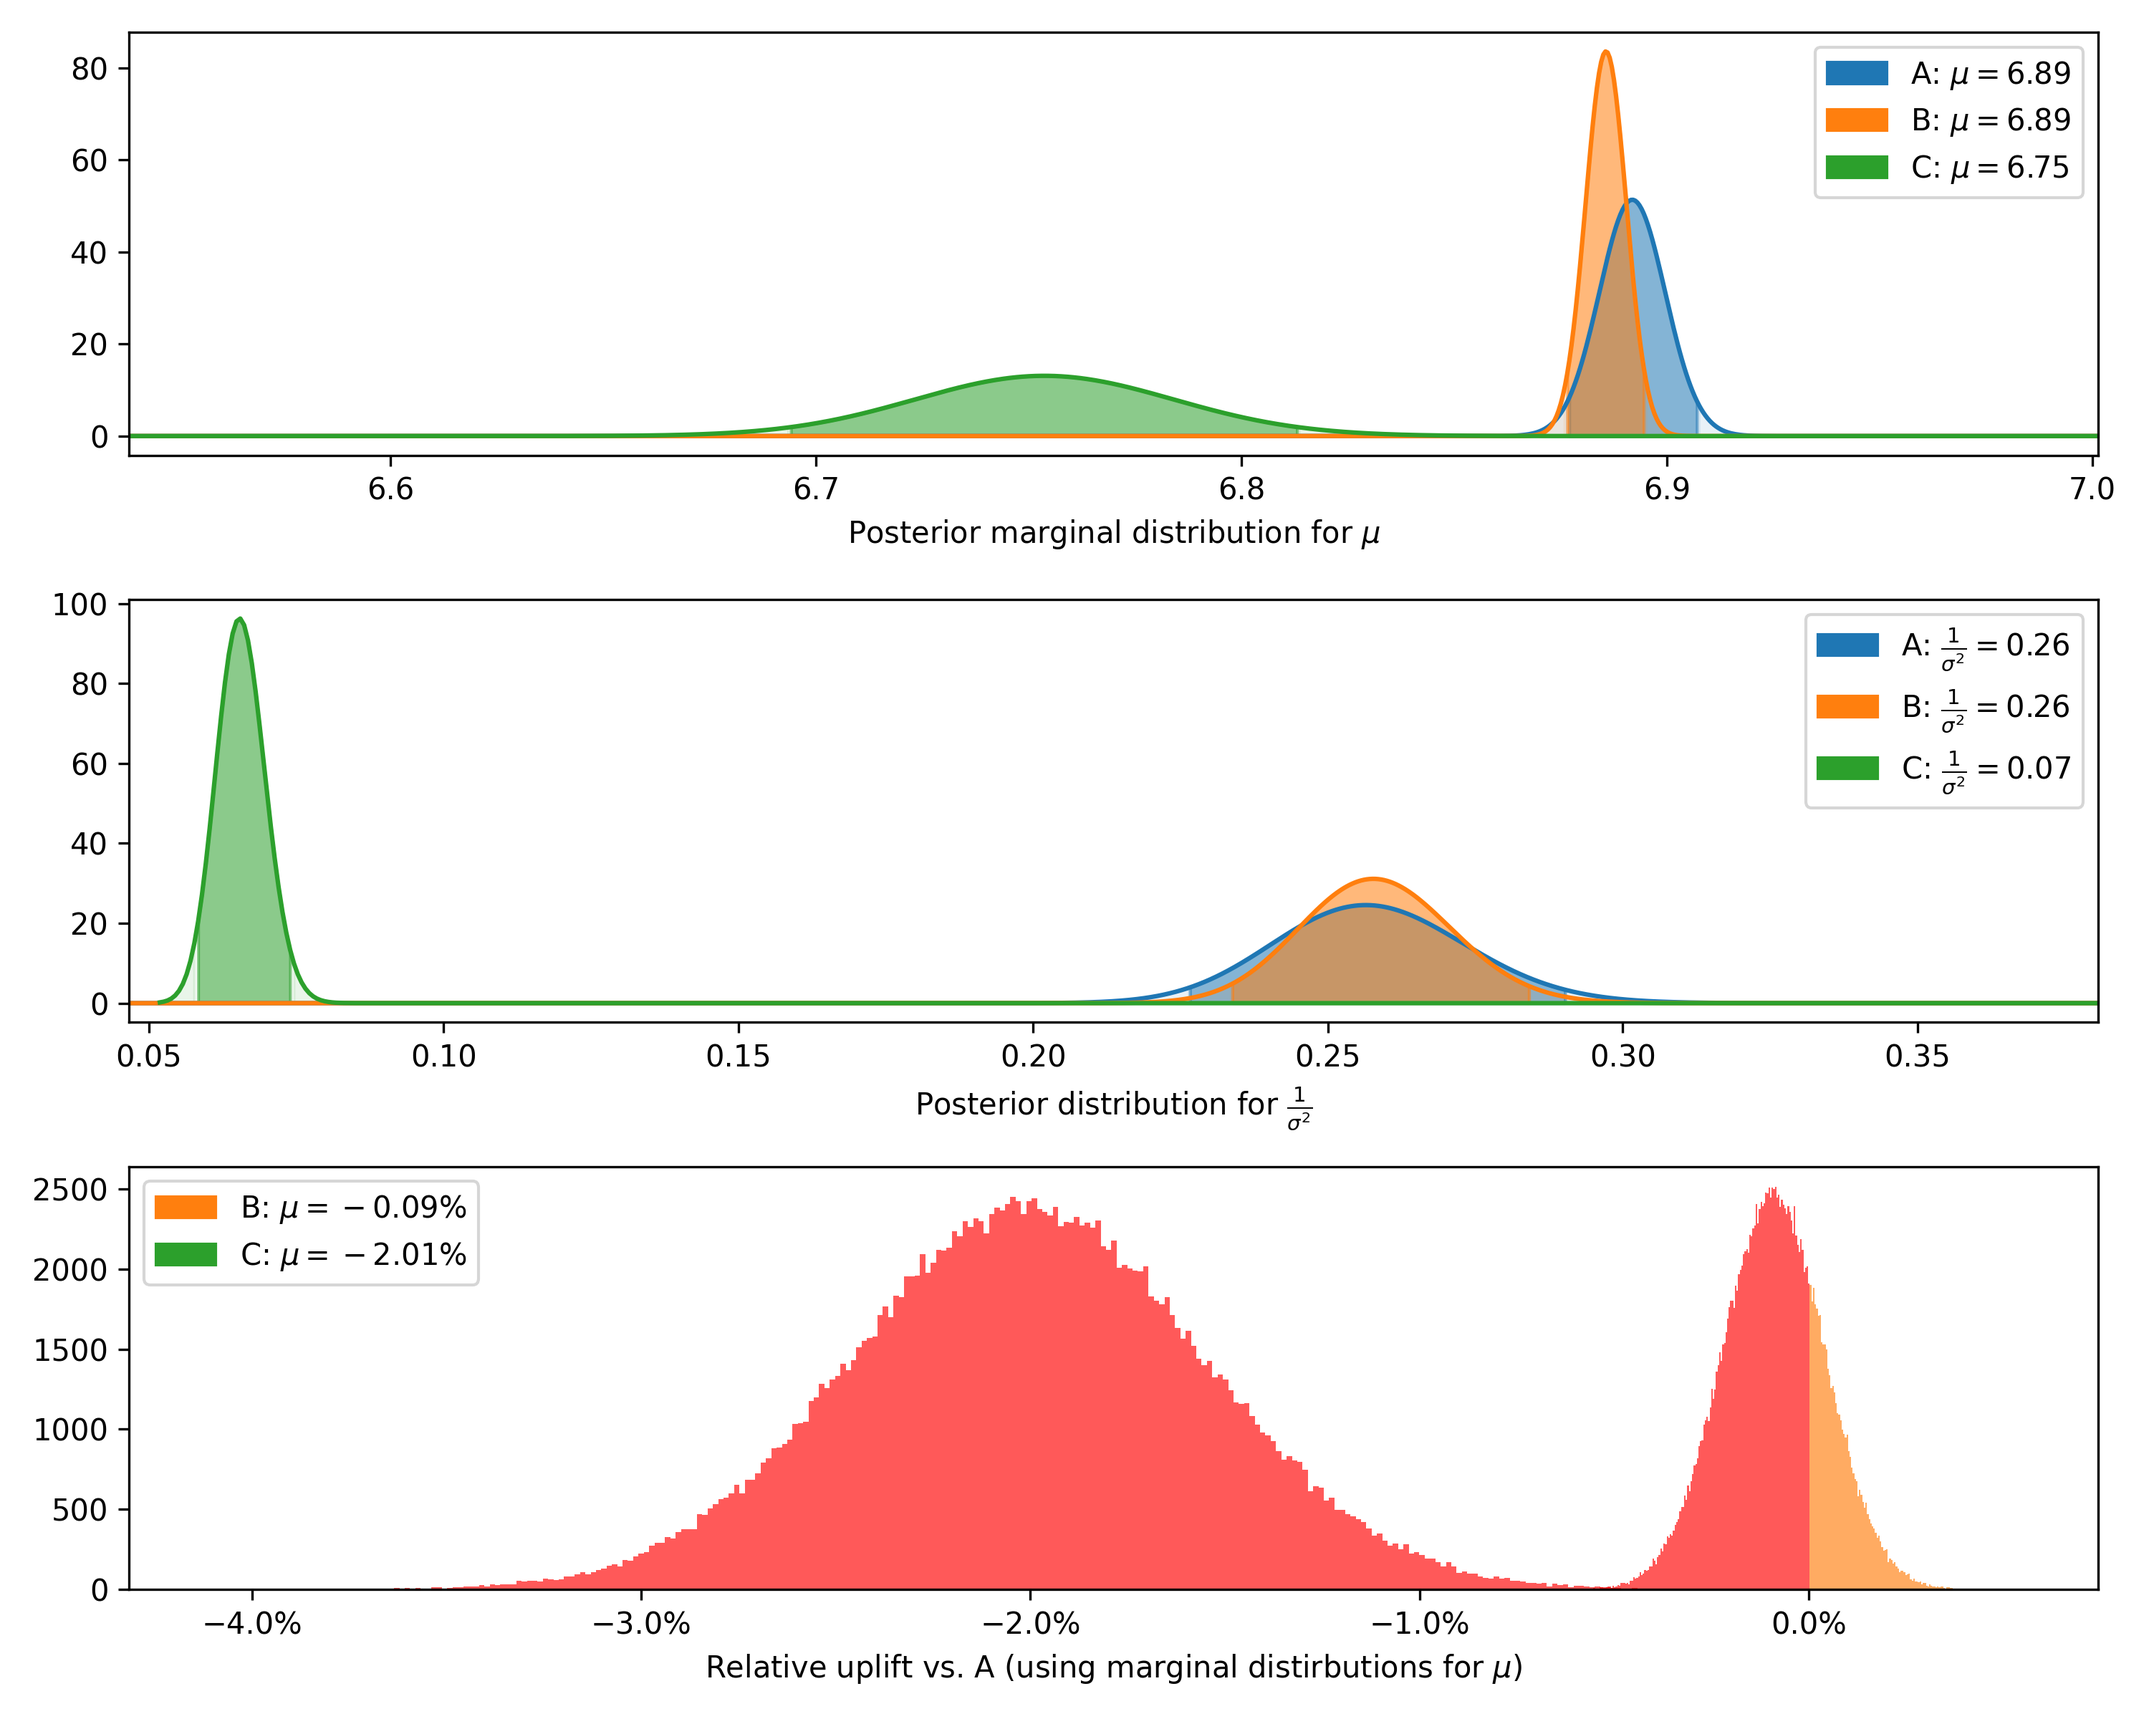
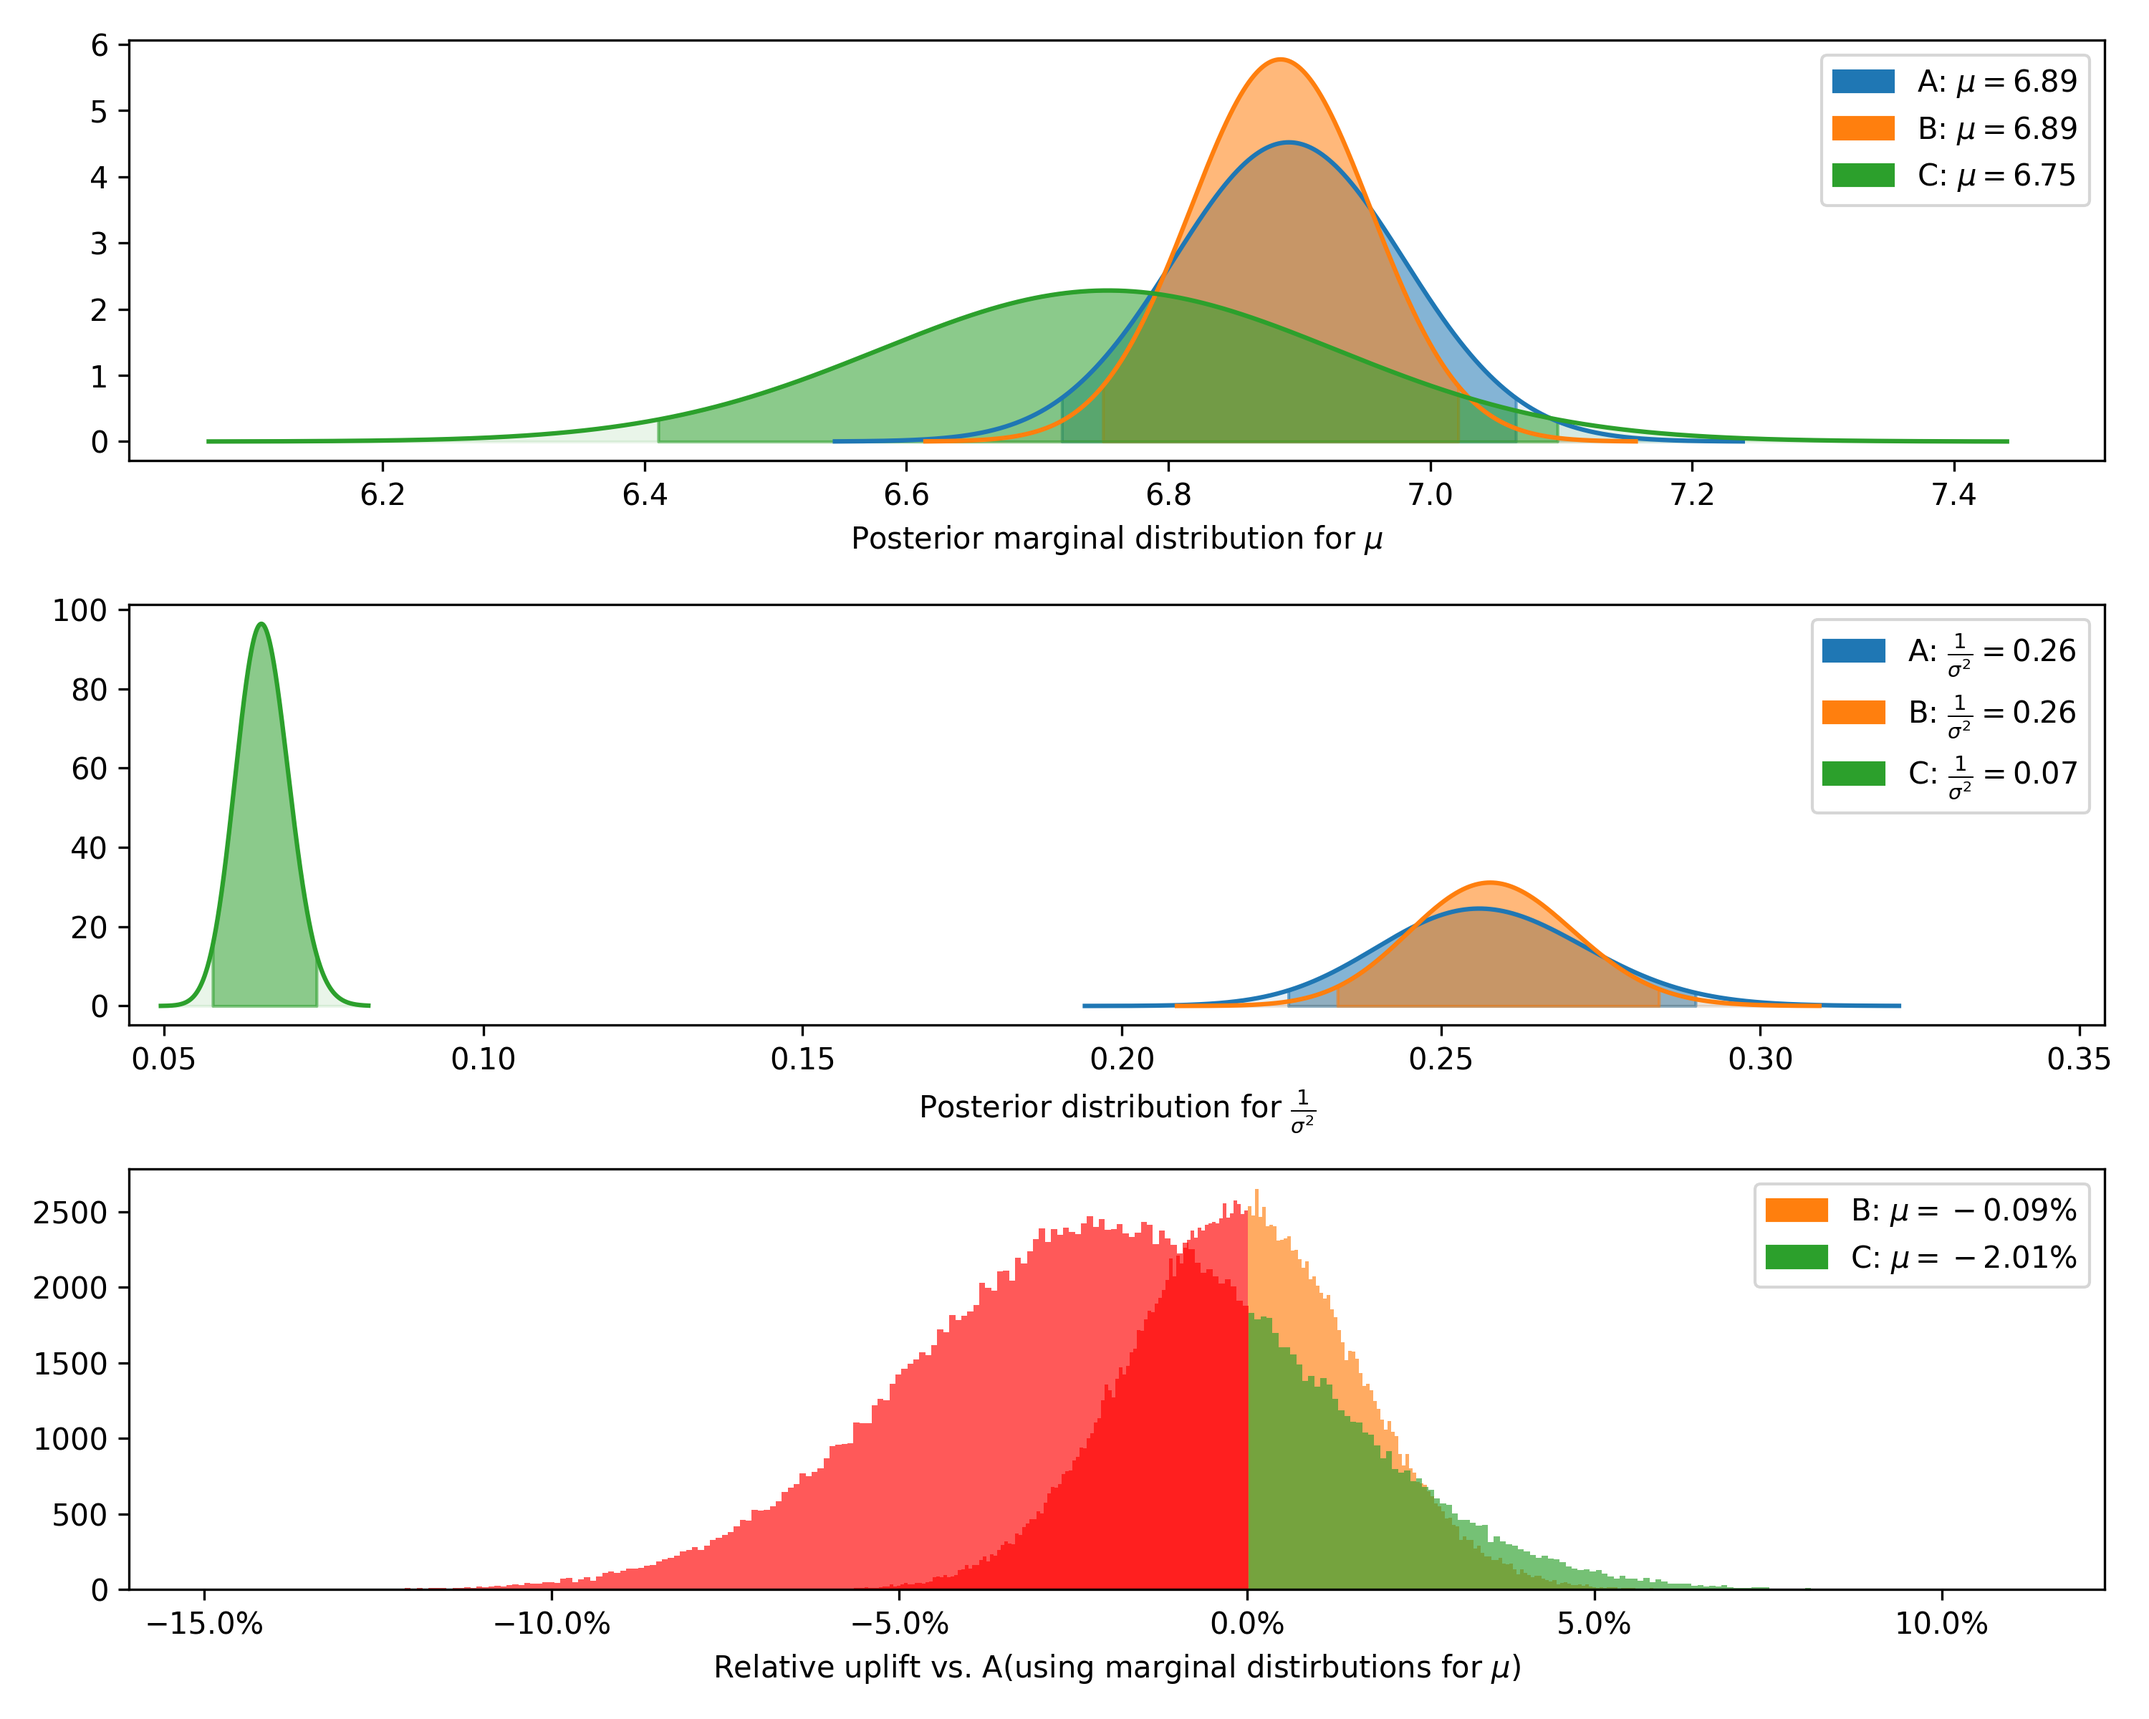
Fixed error in marginal mean calculation for normal data.

diff --git a/bayes_ab/experiments/normal.py b/bayes_ab/experiments/normal.py
@@ -242,6 +242,8 @@ class NormalDataTest(BaseDataTest):
             inv_gamma_alpha = (1 / 2) * v_n
             inv_gamma_beta = (1 / 2) * s_n_2 * v_n
 
+            print(mu, n_n, v_n, s_n_2)
+
             self.data[name] = {
                 "total": total,
                 "sum_values": round(sum_values, 5),
@@ -252,7 +254,10 @@ class NormalDataTest(BaseDataTest):
                 "s_2_prior": s_2_prior,
                 "n_prior": n_prior,
                 "mean": round(mu, 5),
-                "bounds": [round(t.ppf(0.025, v_n, mu, s_n_2 / n_n), 5), round(t.ppf(0.975, v_n, mu, s_n_2 / n_n), 5)],
+                "bounds": [
+                    round(t.ppf(0.025, v_n, mu, np.sqrt(s_n_2 / n_n)), 5),
+                    round(t.ppf(0.975, v_n, mu, np.sqrt(s_n_2 / n_n)), 5),
+                ],
                 "precision": round(inv_gamma_alpha / inv_gamma_beta, 5),
                 "stdev": round(np.sqrt(inv_gamma_beta / inv_gamma_alpha), 5),
                 "stdev_bounds": [
@@ -289,7 +294,10 @@ class NormalDataTest(BaseDataTest):
                 "s_2_prior": s_2_prior,
                 "n_prior": n_prior,
                 "mean": round(mu, 5),
-                "bounds": [round(t.ppf(0.025, v_n, mu, s_n_2 / n_n), 5), round(t.ppf(0.975, v_n, mu, s_n_2 / n_n), 5)],
+                "bounds": [
+                    round(t.ppf(0.025, v_n, mu, np.sqrt(s_n_2 / n_n)), 5),
+                    round(t.ppf(0.975, v_n, mu, np.sqrt(s_n_2 / n_n)), 5),
+                ],
                 "precision": round(inv_gamma_alpha / inv_gamma_beta, 5),
                 "stdev": round(np.sqrt(inv_gamma_beta / inv_gamma_alpha), 5),
                 "stdev_bounds": [
@@ -328,8 +336,8 @@ class NormalDataTest(BaseDataTest):
             )
 
             self.data[name]["bounds"] = [
-                round(t.ppf(0.025, v_n, mu, s_n_2 / n_n), 5),
-                round(t.ppf(0.975, v_n, mu, s_n_2 / n_n), 5),
+                round(t.ppf(0.025, v_n, mu, np.sqrt(s_n_2 / n_n)), 5),
+                round(t.ppf(0.975, v_n, mu, np.sqrt(s_n_2 / n_n)), 5),
             ]
 
             inv_gamma_alpha = (1 / 2) * v_n
@@ -508,9 +516,7 @@ class NormalDataTest(BaseDataTest):
             mu = (n * y_bar + n_prior * m_prior) / (n + n_prior)
             v_n = v_prior + n
             n_n = n_prior + n
-            s_n_2 = (1 / v_n) * (
-                sum_squares + s_2_prior * v_prior + (n_prior * n / (n_prior + n)) * (y_bar - m_prior) ** 2
-            )
+            s_n_2 = (1 / v_n) * (sum_squares + s_2_prior * v_prior + (n_prior * n / n_n) * (y_bar - m_prior) ** 2)
 
             label = f"{var}: " + r"$\mu=" + f"{mu:.2f}$"
             dist_names.append(label)
@@ -520,7 +526,7 @@ class NormalDataTest(BaseDataTest):
             )
             with warnings.catch_warnings():
                 warnings.simplefilter("ignore")
-                y = t.pdf(x, v_n, mu, s_n_2 / n_n)
+                y = t.pdf(x, df=v_n, loc=mu, scale=np.sqrt(s_n_2 / n_n))
             ax1.plot(x, y, label=label)
 
             x_bound = x[
@@ -635,7 +641,7 @@ class NormalDataTest(BaseDataTest):
         v_n = v_prior + n
         n_n = n_prior + n
         s_n_2 = (1 / v_n) * (sum_squares + s_2_prior * v_prior + (n_prior * n / (n_prior + n)) * (y_bar - m_prior) ** 2)
-        control_samples = t.rvs(v_n, mu, s_n_2 / n_n, 200000, random_state=278)
+        control_samples = t.rvs(v_n, mu, np.sqrt(s_n_2 / n_n), 200000, random_state=278)
 
         num_bins = 300
         hist_names = []
@@ -656,7 +662,7 @@ class NormalDataTest(BaseDataTest):
             s_n_2 = (1 / v_n) * (
                 sum_squares + s_2_prior * v_prior + (n_prior * n / (n_prior + n)) * (y_bar - m_prior) ** 2
             )
-            samples = t.rvs(v_n, mu, s_n_2 / n_n, 200000, random_state=278)
+            samples = t.rvs(v_n, mu, np.sqrt(s_n_2 / n_n), 200000, random_state=314)
 
             temp_sample = (samples - control_samples) / self.data[control]["mean"] * 100
             temp_mu = (self.data[var]["mean"] - self.data[control]["mean"]) / self.data[control]["mean"]

diff --git a/tests/test_normal.py b/tests/test_normal.py
@@ -195,7 +195,7 @@ def test_means(norm_test):
 
 
 def test_bounds(norm_test):
-    assert norm_test.bounds == [[8.99216, 10.33784], [8.66793, 12.29713], [4.65665, 18.31608]]
+    assert norm_test.bounds == [[8.4984, 10.8316], [8.52588, 12.43918], [7.71766, 15.25507]]
 
 
 def test_precisions(norm_test):
@@ -244,7 +244,7 @@ def test_evaluate(norm_test):
             "prob_being_best": 0.0,
             "expected_loss": 1.8258233,
             "uplift_vs_a": 0,
-            "bounds": [8.99216, 10.33784],
+            "bounds": [8.4984, 10.8316],
             "precision": 0.07515,
             "stdev": 3.64773,
             "stdev_bounds": [2.98808, 4.68381],
@@ -256,7 +256,7 @@ def test_evaluate(norm_test):
             "prob_being_best": 0.01535,
             "expected_loss": 1.0101269,
             "uplift_vs_a": 0.08459,
-            "bounds": [8.66793, 12.29713],
+            "bounds": [8.52588, 12.43918],
             "precision": 0.06449,
             "stdev": 3.93792,
             "stdev_bounds": [2.95496, 5.9035],
@@ -268,7 +268,7 @@ def test_evaluate(norm_test):
             "prob_being_best": 0.98465,
             "expected_loss": 0.0031627,
             "uplift_vs_a": 0.18845,
-            "bounds": [4.65665, 18.31608],
+            "bounds": [7.71766, 15.25507],
             "precision": 0.01384,
             "stdev": 8.50004,
             "stdev_bounds": [6.53952, 12.14711],

diff --git a/bayes_ab/metrics/evaluation.py b/bayes_ab/metrics/evaluation.py
@@ -524,9 +524,9 @@ def eval_numerical_dirichlet_agg(
 
 def eval_poisson_agg(
     totals: List[int],
-    means: List[Number],
-    a_priors_gamma: List[Number] = None,
-    b_priors_gamma: List[Number] = None,
+    means: List[float],
+    a_priors_gamma: List[float] = None,
+    b_priors_gamma: List[float] = None,
     sim_count: int = 200000,
     seed: int = None,
 ) -> Tuple[List[float], List[float], List[float]]:
